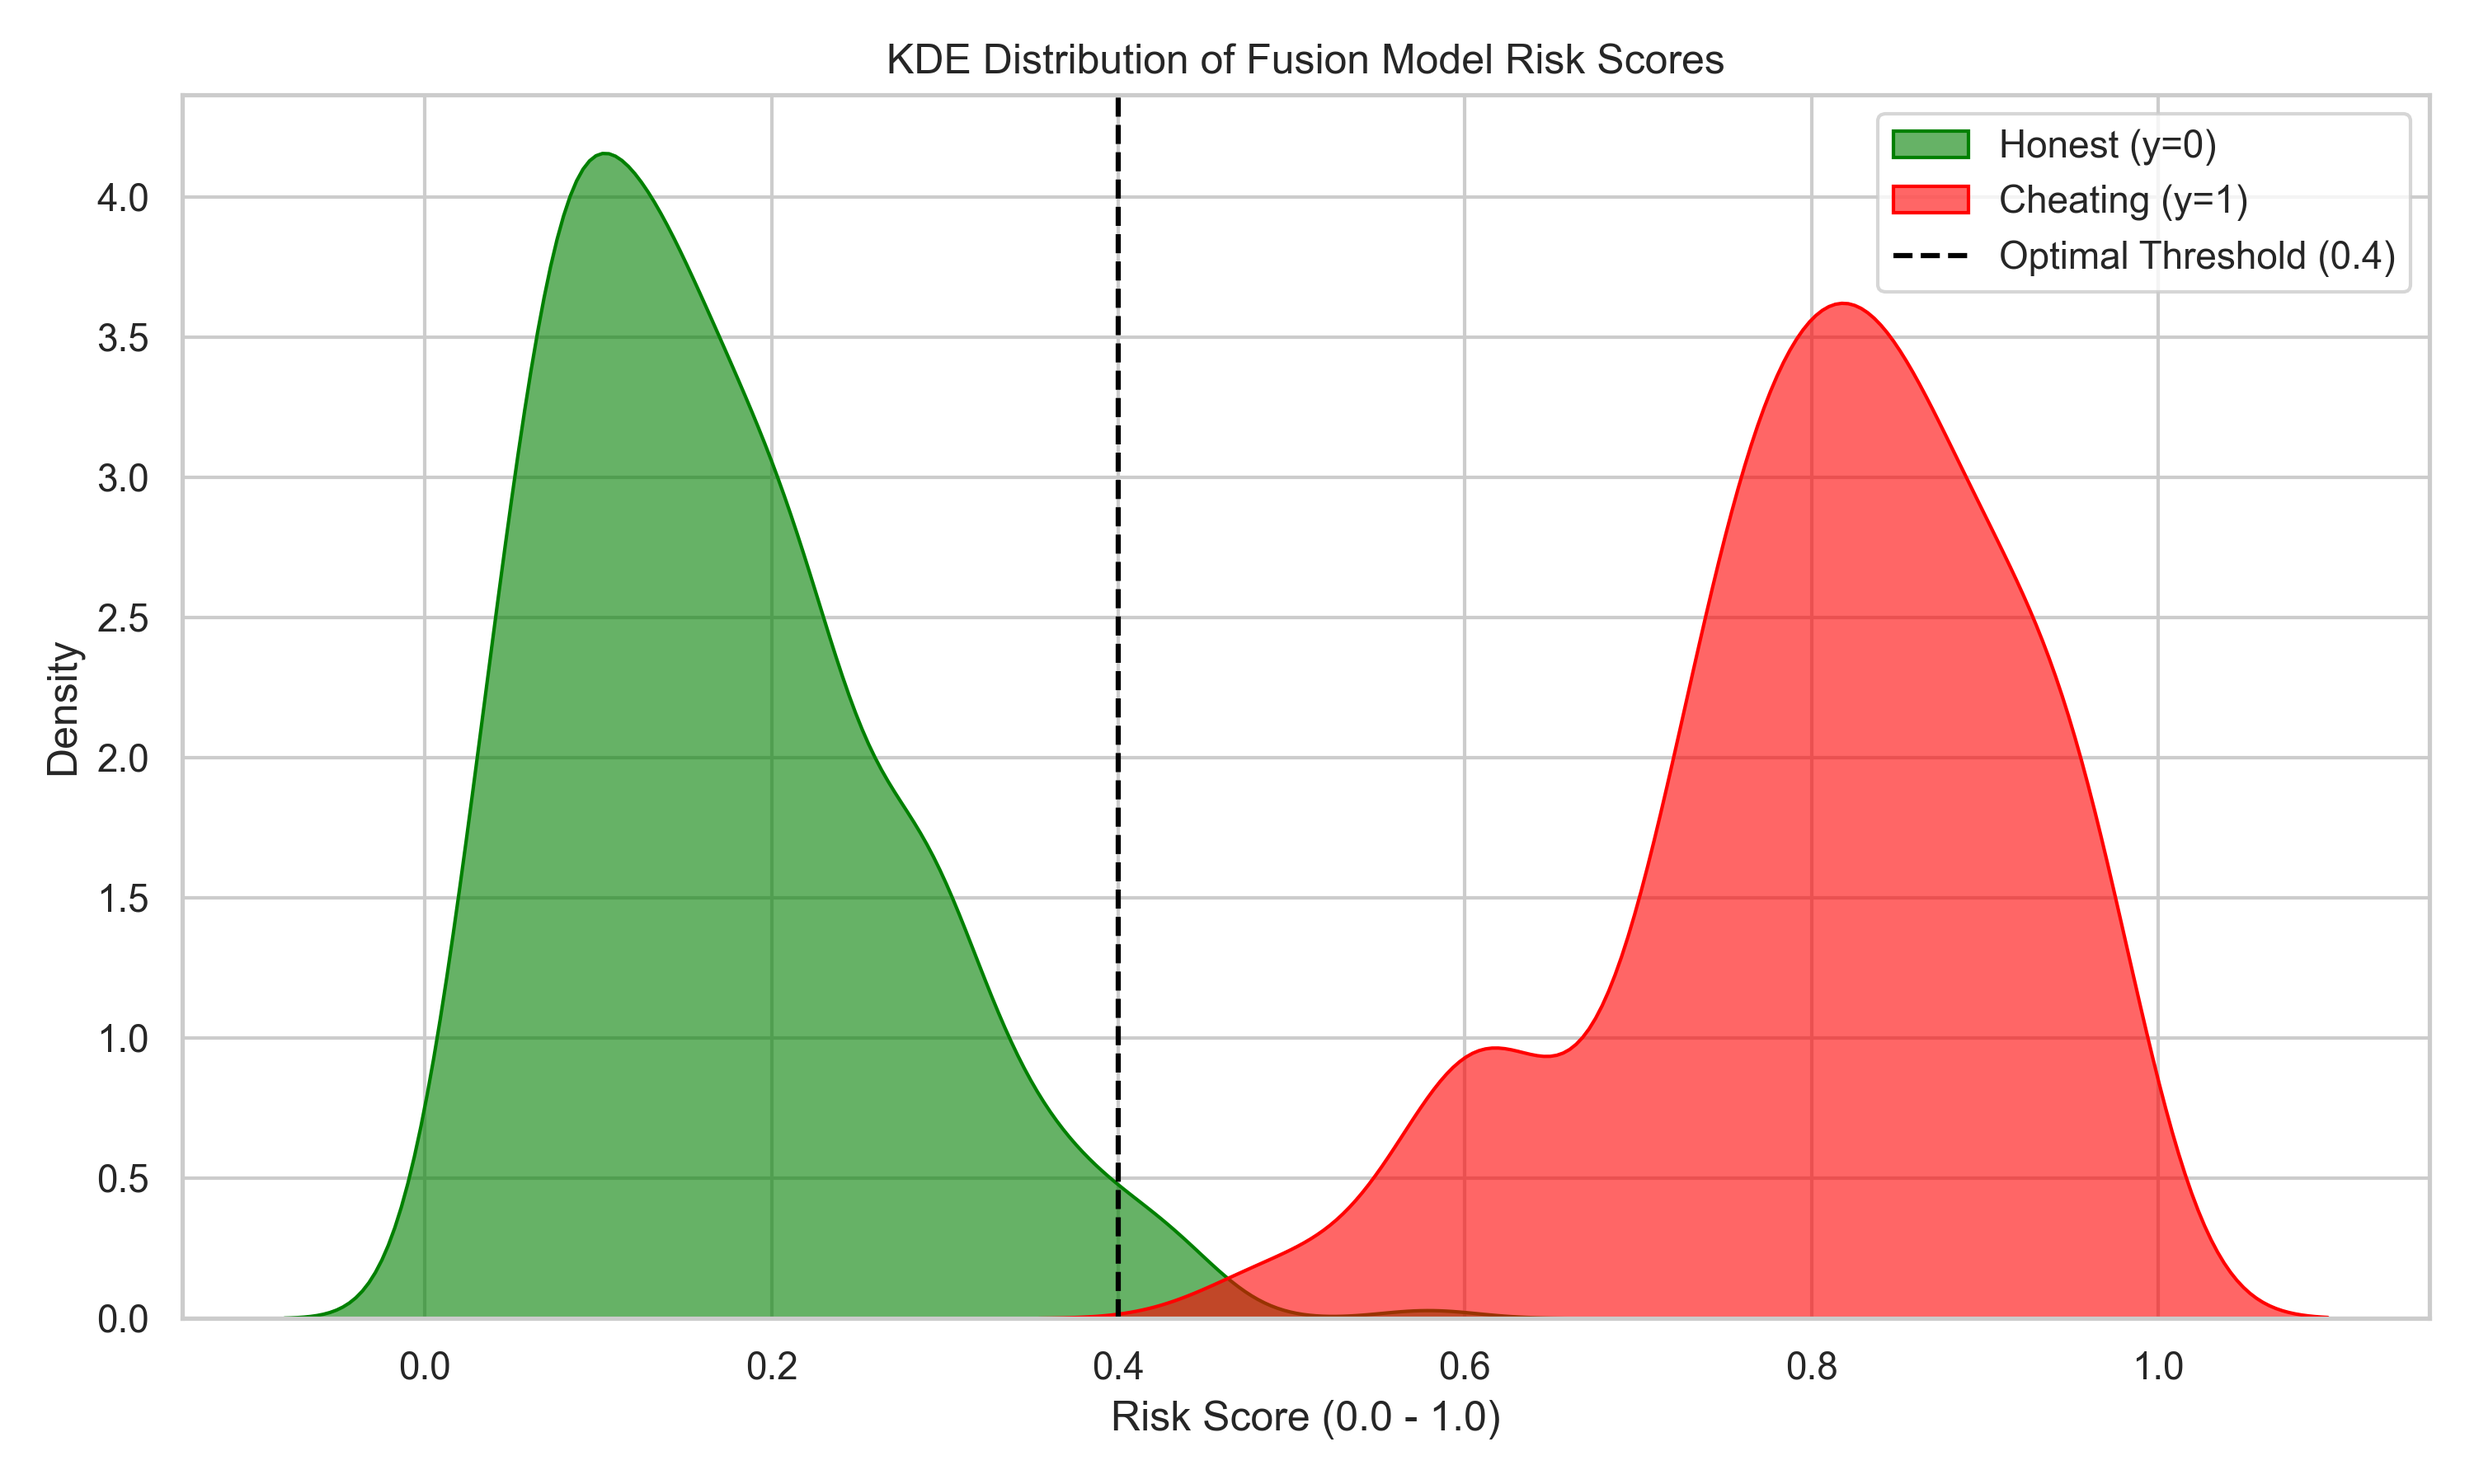
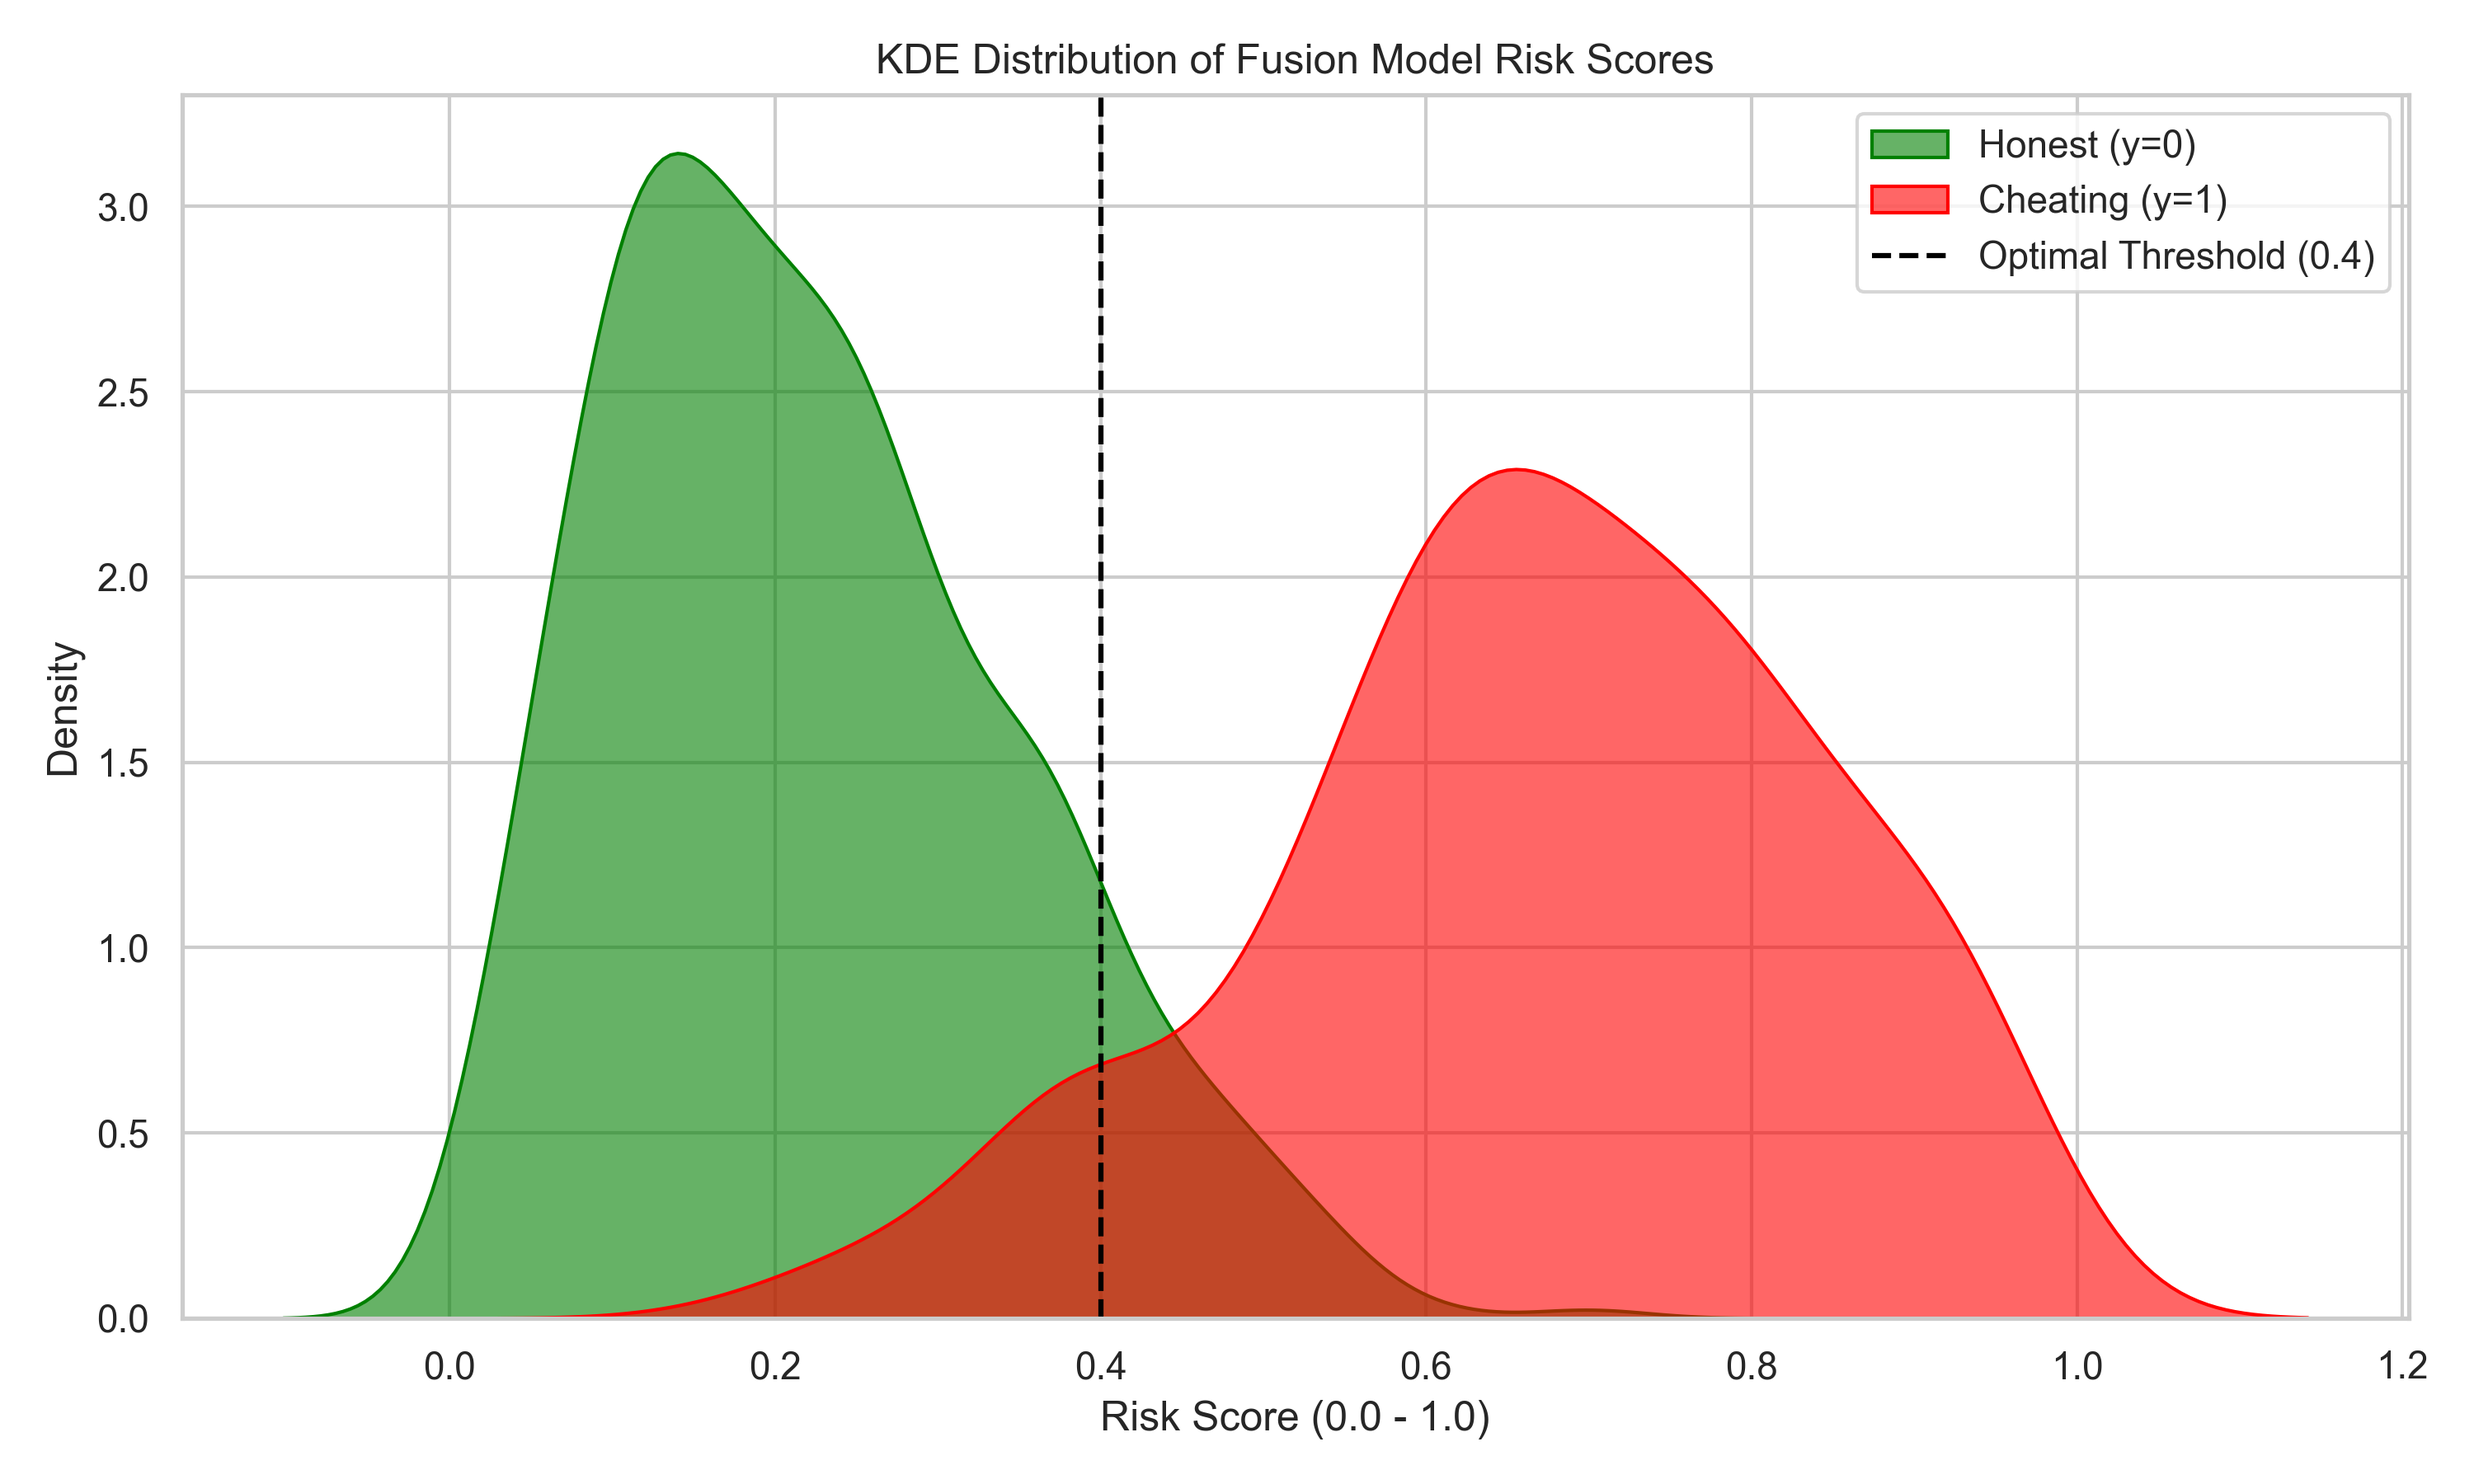
Updated plots & added .msi files in git ignore

diff --git a/backend/scripts/generate_statistical_plots.py b/backend/scripts/generate_statistical_plots.py
@@ -39,9 +39,9 @@ def sim_data(n_honest=500, n_cheating=200):
     """Simulate realistic model output scores for demonstration."""
     np.random.seed(42)
     # Honest scores are clustered low, but some false positives exist.
-    honest_scores = np.clip(np.random.beta(a=2, b=10, size=n_honest), 0, 1)
+    honest_scores = np.clip(np.random.beta(a=2, b=7, size=n_honest), 0, 1)
     # Cheating scores are clustered high.
-    cheating_scores = np.clip(np.random.beta(a=8, b=2, size=n_cheating), 0, 1)
+    cheating_scores = np.clip(np.random.beta(a=4, b=2, size=n_cheating), 0, 1)
     
     y_true = np.concatenate([np.zeros(n_honest), np.ones(n_cheating)])
     y_scores = np.concatenate([honest_scores, cheating_scores])
